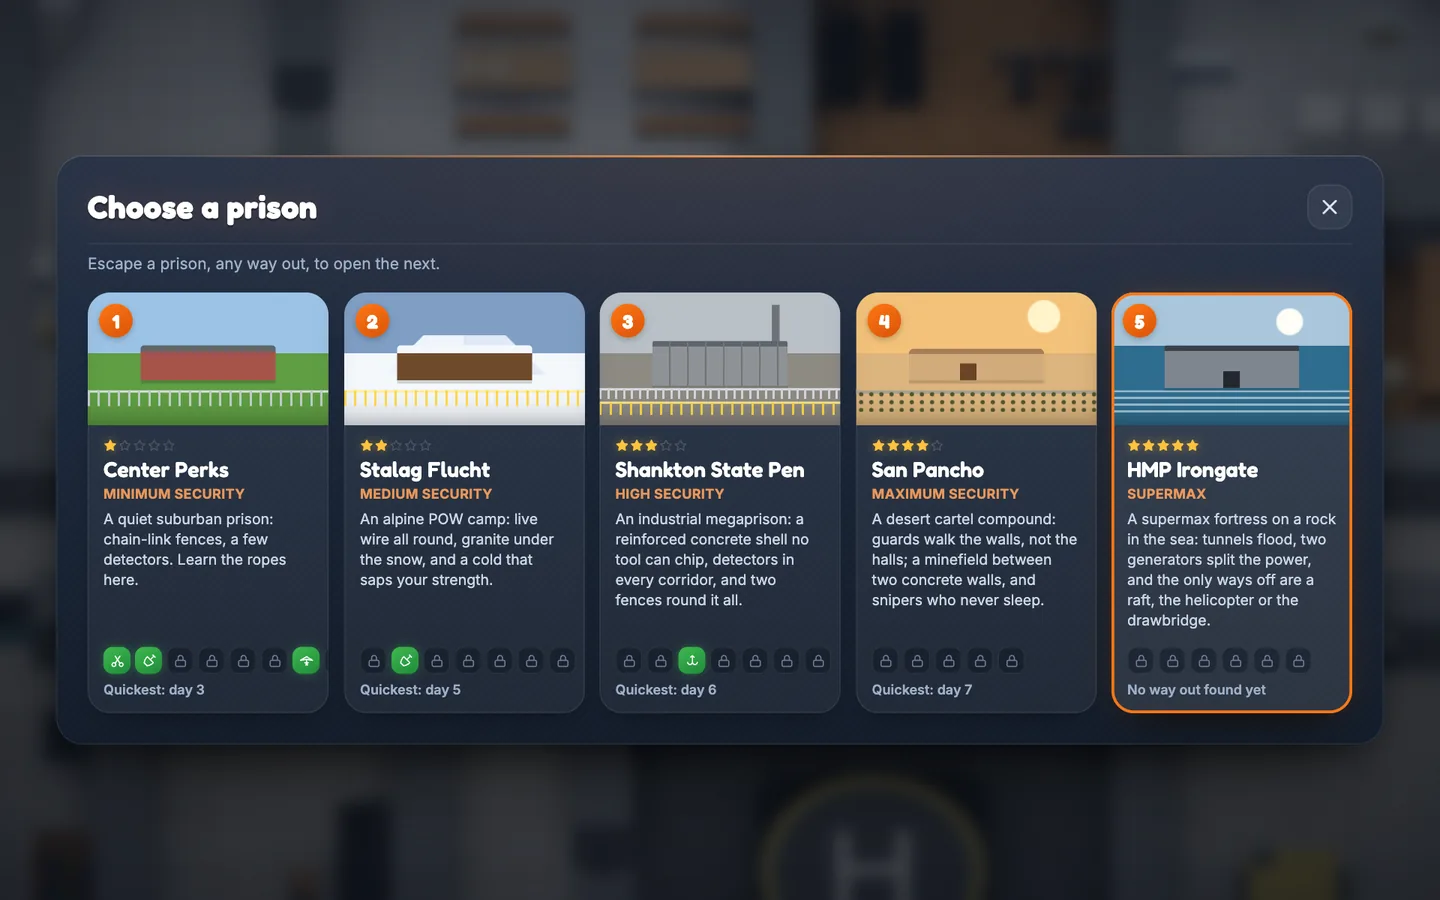
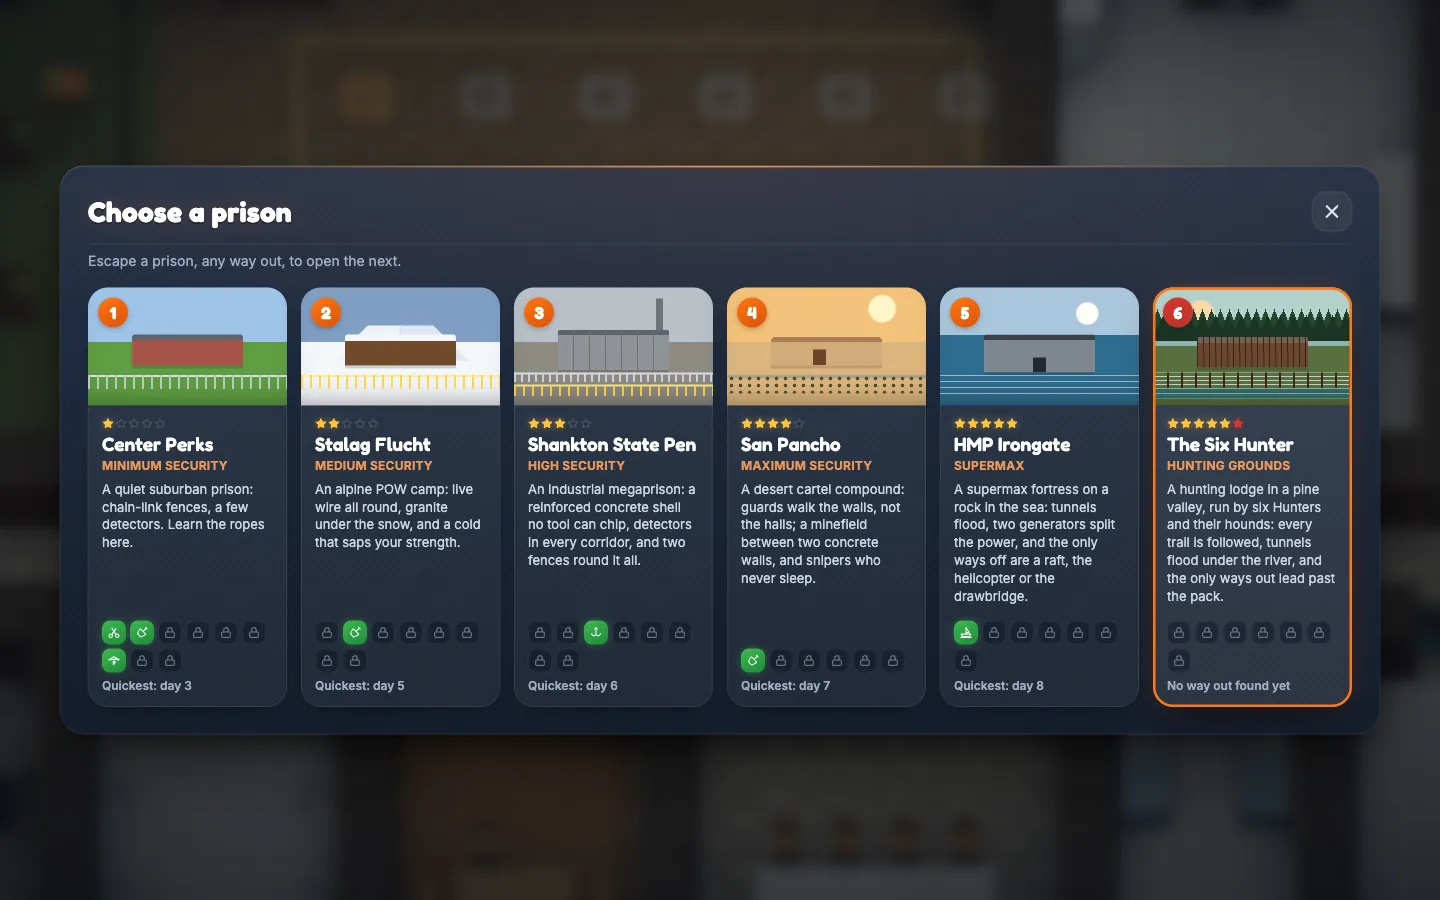
The Six Hunter, the finish (phase 2): the look merged; How to play's picture (the kennel hand at the trough, the six hounds by their kennels, the river: SHOTS.hunters); the README's six prisons (map-six-hunter.webp, the select screen with six cards); its guards called Hunters wherever a guard is nam

diff --git a/src/i18n/fr.ts b/src/i18n/fr.ts
@@ -3872,7 +3872,7 @@ export const fr: Partial<Strings> = {
   "help.delivery.steps": "Mets-toi à l’arrière (l’anneau vert) quand aucun gardien ne regarde.\nUtilise le bouton d’action pour monter : caché, personne ne te voit, mais l’emploi du temps continue sans toi.\nUn coup d’œil à 14:30 et tu pars avec ; une fouille complète te trouve, et c’est l’isolement.",
   "help.delivery.tip": "Si personne n’est là pour fouiller (assommé, attiré ailleurs par un bruit, soudoyé pour regarder ailleurs), il n’y a pas de fouille du tout.",
   "help.delivery.warn": "Pendant un confinement, rien ne sort sans fouille, et des dégâts trouvés pendant que tu te caches en déclenchent un.",
-  "help.delivery.more": "Chaque prison sauf Shankton en a un : un camion de ravitaillement, celui de la Croix-Rouge, un camion de primeurs, l’hélicoptère d’Irongate, le camion du fournisseur des Six Veneurs.\nTant qu’il est là, il bloque le passage et la vue, et son surveillant en fait le tour.\nLa minutie de la fouille dépend de la prison et du jour ; les rumeurs le savent.\nUn gardien strict regarde toujours bien, et tout le monde pendant deux semaines après qu’un passager clandestin a été pris.",
+  "help.delivery.more": "Chaque prison sauf Shankton en a un : un camion de ravitaillement (à Center Perks et aux Six Veneurs), celui de la Croix-Rouge, un camion de primeurs, l’hélicoptère d’Irongate.\nTant qu’il est là, il bloque le passage et la vue, et son surveillant en fait le tour.\nLa minutie de la fouille dépend de la prison et du jour ; les rumeurs le savent.\nUn gardien strict regarde toujours bien, et tout le monde pendant deux semaines après qu’un passager clandestin a été pris.",
   "help.bluff.hook": "Une fausse carte au changement d’équipe",
   "help.bluff.sum": "Au changement d’équipe du soir, le nouveau gardien du portail ne connaît encore personne : montre une fausse carte et sors.",
   "help.bluff.tl": "19:50|Le portail change d’équipe\n20:10|Le changement est fini",
@@ -5100,5 +5100,11 @@ export const fr: Partial<Strings> = {
   "help.hunters.list2": "Un leurre à l’anis, lancé, emporte ta piste : les chiens de service à portée y traînent leurs Veneurs.\nLe savon au goudron efface ton odeur, deux fois.\nUne cape de camouflage, portée, ne laisse aucune piste à découvert.\nLe maître d’équipage porte le cor de rappel : sonné, chaque chien rentre au chenil pour une heure, et les Veneurs alentour l’entendent.",
   "help.hunters.warn": "La rivière inonde tout tunnel creusé dessous, et du granit s’étend sous l’angle nord-ouest.\nLe mur de pierres sèches ne s’entame pas, et la clôture à cerfs est électrifiée.",
   "help.hunters.tip": "Dans le brouillard, épais le matin et dès 19:00, un Veneur dehors ne voit qu’à 4 cases.",
-  "help.hunters.more": "Pas de mutinerie ici : six Veneurs et leurs chiens, c’est trop pour les mettre tous à terre.\nSept façons de sortir : par la rivière, sous le mur, par-dessus au gré du vent, dans le camion du fournisseur, par le portail au culot, sur faux papiers, ou en liberté conditionnelle.\nLes chiens travaillent dès le jour 2, comme partout ; trois d’entre eux travaillent aussi la nuit.\nPassé le mur, la vallée de la Hollowrun : les gués effacent ta piste, et les Six te poursuivent avec leurs chiens.",
+  "help.hunters.more": "Pas de mutinerie ici : six Veneurs et leurs chiens, c’est trop pour les mettre tous à terre.\nSept façons de sortir : par la rivière, sous le mur, par-dessus au gré du vent, dans le camion de ravitaillement, par le portail au culot, sur faux papiers, ou en liberté conditionnelle.\nLes chiens travaillent dès le jour 2, comme partout ; trois d’entre eux travaillent aussi la nuit.\nPassé le mur, la vallée de la Hollowrun : les gués effacent ta piste, et les Six te poursuivent avec leurs chiens.",
+  // 2.36: the Six Hunter's guards are Hunters (ui/names.ts guardWord: `<key>.<prison>` first).
+  "guard.title.six-hunter": "Veneur {name}",
+  "guard.addressed.six-hunter": "Veneur {name}",
+  "guard.subject.six-hunter": "Le Veneur {name}",
+  "guard.the.six-hunter": "le Veneur {name}",
+  "combat.guardNamed.six-hunter": "Veneur {name} · clé {key}",
 };

diff --git a/src/i18n/en.ts b/src/i18n/en.ts
@@ -3874,7 +3874,7 @@ export const en = {
   "help.delivery.steps": "Stand at its tail (the green ring) with no guard looking.\nUse the action button to climb in: hidden, nobody sees you, but the routine goes on without you.\nA quick look at 14:30 and you leave with it; a thorough search finds you, and it’s solitary.",
   "help.delivery.tip": "With nobody there to search (knocked out, drawn off by a noise, bribed to look the other way), there’s no search at all.",
   "help.delivery.warn": "In a lockdown nothing leaves unsearched, and damage the guards find while you hide raises one.",
-  "help.delivery.more": "Every prison but Shankton has one: a supply truck, the Red Cross truck, a produce truck, Irongate’s helicopter, the Six Hunter’s outfitter’s truck.\nWhile it’s in, it blocks the way and the view, and its supervisor walks round it.\nHow thorough the search is depends on the prison and the day; the gossip knows.\nA strict guard always looks properly, and so does everyone for two weeks after a stowaway is caught.",
+  "help.delivery.more": "Every prison but Shankton has one: a supply truck (Center Perks’ and the Six Hunter’s), the Red Cross truck, a produce truck, Irongate’s helicopter.\nWhile it’s in, it blocks the way and the view, and its supervisor walks round it.\nHow thorough the search is depends on the prison and the day; the gossip knows.\nA strict guard always looks properly, and so does everyone for two weeks after a stowaway is caught.",
   "help.bluff.hook": "A fake ID at the shift change",
   "help.bluff.sum": "At the evening shift change the new gatekeeper doesn’t know a face yet: show a fake ID and walk out.",
   "help.bluff.tl": "19:50|The gate changes shifts\n20:10|The change is over",
@@ -5102,7 +5102,13 @@ export const en = {
   "help.hunters.list2": "A drag line, thrown, takes your trail with it: the hounds on duty within earshot drag their Hunters to where it lands.\nTar soap washes your scent off, twice.\nA ghillie cloak, worn, leaves no trail out in the open.\nThe Huntmaster carries the recall horn: blown, every hound runs home for an hour, and the Hunters nearby hear it.",
   "help.hunters.warn": "The river floods any tunnel dug under it, and granite lies under the north-west corner.\nThe fieldstone wall can’t be chipped, and the deer fence is electric.",
   "help.hunters.tip": "In fog, thick in the morning and from 19:00, a Hunter out in it sees only 4 tiles.",
-  "help.hunters.more": "No takeover here: six Hunters and their hounds are too many to put down at once.\nSeven ways out: by the river, under the wall, over it on the wind, in the outfitter’s truck, through the gate on a bluff, on forged papers, or on parole.\nThe hounds work from day 2, as everywhere; three of them work nights too.\nOver the wall, the valley of the Hollowrun: fords wash your trail, and the Six come after you with their hounds.",
+  "help.hunters.more": "No takeover here: six Hunters and their hounds are too many to put down at once.\nSeven ways out: by the river, under the wall, over it on the wind, in the supply truck, through the gate on a bluff, on forged papers, or on parole.\nThe hounds work from day 2, as everywhere; three of them work nights too.\nOver the wall, the valley of the Hollowrun: fords wash your trail, and the Six come after you with their hounds.",
+  // 2.36: the Six Hunter's guards are Hunters (ui/names.ts guardWord: `<key>.<prison>` first).
+  "guard.title.six-hunter": "Hunter {name}",
+  "guard.addressed.six-hunter": "Hunter {name}",
+  "guard.subject.six-hunter": "Hunter {name}",
+  "guard.the.six-hunter": "Hunter {name}",
+  "combat.guardNamed.six-hunter": "Hunter {name} · {key} key",
 };
 
 export type Strings = typeof en;

diff --git a/src/ui/names.ts b/src/ui/names.ts
@@ -1,7 +1,7 @@
 /** How people are named in the game's text: inmates, guards (to address or as a sentence's subject), jobs, and a favor in the asker's words. */
 import { FAVOR_KINDS } from '../sim/systems/economy';
 import type { Sim } from '../sim/Sim';
-import { type Key, lowerFirst, t } from '../i18n';
+import { hasKey, type Key, lowerFirst, t } from '../i18n';
 import { itemName } from './items';
 
 /** An inmate's nickname (the same in every language), else "Inmate · cell n". */
@@ -25,16 +25,28 @@ export function gangName(sim: Sim, k: number): string {
   return id ? t(`gang.${id}` as Key) : '';
 }
 
+/** The words for a guard by title ("Officer Pratt") in a sentence's place. */
+type GuardWord = 'guard.title' | 'guard.addressed' | 'guard.subject' | 'guard.the' | 'combat.guardNamed';
+
+/**
+ * 2.36: a guard's title as this prison has it: `<key>.<prison>` where there is one (the Six Hunter's guards are
+ * Hunters: "Hunter Garrow", "Veneur Garrow"), else the usual ("Officer Pratt").
+ */
+export function guardWord(sim: Pick<Sim, 'prison'>, key: GuardWord, vars: Record<string, string | number>): string {
+  const own = `${key}.${sim.prison.id}`;
+  return t(hasKey(own) ? own : key, vars);
+}
+
 /** A guard as the player addresses it: "Officer Pratt" (or "The guard" for one without a name). */
 export function guardTitle(sim: Sim, k: number): string {
   const d = sim.prison.guards[k];
-  return d?.name ? t('guard.title', { name: d.name }) : t('guard.nameless');
+  return d?.name ? guardWord(sim, 'guard.title', { name: d.name }) : t('guard.nameless');
 }
 
 /** A guard opening a sentence: "Officer Pratt looks away", "Le gardien Pratt ferme les yeux". */
 export function guardSubject(sim: Sim, k: number): string {
   const d = sim.prison.guards[k];
-  return d?.name ? t('guard.subject', { name: d.name }) : t('guard.nameless');
+  return d?.name ? guardWord(sim, 'guard.subject', { name: d.name }) : t('guard.nameless');
 }
 
 /** The job names in the board's order for this prison (for toasts). */

diff --git a/src/play/labels.ts b/src/play/labels.ts
@@ -33,7 +33,7 @@ import { trackCheck } from '../sim/systems/races';
 import { BED, bedAt, bedOf, wilted } from '../sim/systems/garden';
 import { CROP, GROWN, HEATWAVE_WATER, TIPSY_STEPS } from '../content/long';
 import { planOf } from '../sim/systems/calendar';
-import { inmateName } from '../ui/names';
+import { guardWord, inmateName } from '../ui/names';
 
 /**
  * The words on the buttons and cards: who someone is, what a container is called, what the
@@ -159,7 +159,7 @@ function personName(sim: Sim, id: number): string {
   if (!isGuard(s, id)) return t('combat.inmateNamed', { name: inmateName(sim, id), n: s.inmates[id]?.cell ?? 0 });
   const d = sim.prison.guards[id - s.inmates.length];
   const key = t(`keyColor.${d.key}` as Key);
-  return d.name ? t('combat.guardNamed', { name: d.name, key }) : t('combat.guard', { key });
+  return d.name ? guardWord(sim, 'combat.guardNamed', { name: d.name, key }) : t('combat.guard', { key });
 }
 
 /** What a container is called ("your desk", "bookshelf", someone's pockets). */
@@ -310,7 +310,7 @@ export function describePlan(sim: Sim, plan: Plan | null, held: number): ActionW
       // A guard by its title, as the sentence needs it ("Parler au gardien Pratt").
       const guard = who >= n ? sim.prison.guards[who - n] : undefined;
       return say(`person:${who}:${mail}:${lang}`, mail ? 'act.deliver' : guard ? 'act.talkGuard' : 'act.talk', () =>
-        !guard ? inmateName(sim, who) : guard.name ? t('guard.addressed', { name: guard.name }) : t('guard.addressedNameless'),
+        !guard ? inmateName(sim, who) : guard.name ? guardWord(sim, 'guard.addressed', { name: guard.name }) : t('guard.addressedNameless'),
       );
     }
     case 'fixture':

diff --git a/scripts/dev/helpshot.ts b/scripts/dev/helpshot.ts
@@ -40,6 +40,7 @@ import { cardUp, RACE_ENTER, raceCard } from '../../src/sim/systems/races';
 import { tonight, turnFrom } from '../../src/sim/systems/talent';
 import { pointAt } from '../../src/sim/systems/tattoo';
 import { CENTER_PERKS } from '../../src/content/prisons/center-perks';
+import { SIX_HUNTER } from '../../src/content/prisons/six-hunter';
 import { HEARINGS } from '../../src/content/parole';
 import { HOLIDAY } from '../../src/content/holidays';
 import { prisonDay } from '../../src/sim/systems/calendar';
@@ -778,6 +779,22 @@ export const SHOTS: Record<string, Shot> = {
   shell: { prison: 'shankton', route: 'rooftop', when: (_s, k, n) => k >= n - 60, zoom: 1.5, dz: 2.5, light: 1050 },
   mines: { prison: 'san-pancho', route: 'gate', when: (_s, k, n) => k >= n - 40, zoom: 1.3, light: 1050 },
   island: { prison: 'irongate', route: 'raft', when: (_s, k, n) => k >= n - 2, live: 1.2, light: 660, zoom: 0.98, dx: -2 },
+  // 2.36: the kennel hand at the Six Hunter on day 1, a bowl of feed at the trough, the six hounds lying by their
+  // kennels in the run beyond (they work from day 2), each in its own coat, Larch watching, the river to the east.
+  // Taken at 1440×844 (ratio 1).
+  hunters: {
+    make: () => {
+      const bot = new Bot(SIX_HUNTER, 7);
+      bot.routineUntil(1, 12 * 60 + 5);
+      const room = jobRooms(bot.sim.world)[0];
+      useProp(bot, room.take);
+      useProp(bot, room.machines[1]);
+      return bot;
+    },
+    when: (_s, k, n) => k >= n - 1,
+    zoom: 1,
+    dz: 2.4,
+  },
 };
 
 const view = () => (window as unknown as { __view: View }).__view;

diff --git a/src/play/nights.ts b/src/play/nights.ts
@@ -39,7 +39,7 @@ import { play, playNow, sendOp } from './game';
 import { coachOnce } from './tips';
 import { TOUCH } from '../ui/dom';
 import { floatUp } from './floats';
-import { inmateName } from '../ui/names';
+import { guardWord, inmateName } from '../ui/names';
 import type { StageView } from '../ui/stage';
 import type { QuizView } from '../ui/quiz';
 
@@ -53,7 +53,7 @@ import type { QuizView } from '../ui/quiz';
 /** A clock time ("19:34") from minutes of the day. */
 const formatTime = (m: number) => hhmm(m % 1440);
 /** A guard by name ("Officer Pratt"), an item by its id. */
-const guardLabel = (sim: Sim, k: number) => t('guard.title', { name: sim.prison.guards[k]?.name ?? '' });
+const guardLabel = (sim: Sim, k: number) => guardWord(sim, 'guard.title', { name: sim.prison.guards[k]?.name ?? '' });
 const itemName = (id: string) => t(`item.${id}` as Key);
 
 /** The last act's verdict and the last quiz's end, held a moment for the cards (ms of play time: a pause doesn't eat them); the last judgement's flash; notes in a row. Not state. */

diff --git a/src/play/announceJobs.ts b/src/play/announceJobs.ts
@@ -13,7 +13,7 @@ import { play } from './game';
 import { coachOnce, seenInteract } from './tips';
 import { FEAST_ENERGY } from '../content/days';
 import { floatAt } from './floats';
-import { inmateName, jobName } from '../ui/names';
+import { guardWord, inmateName, jobName } from '../ui/names';
 import { nightTired } from './announceKit';
 
 /** Sitting at a canteen table at a meal with nothing to eat, and the counter serving. */
@@ -99,7 +99,11 @@ export function announceJobs(e: SimEvent, sim: Sim) {
         closeSocial();
         sound.whistle();
         buzz('missed');
-        banner.toast(t('toast.countCall', { name: t('guard.title', { name: sim.prison.guards[wardenOf(sim)]?.name ?? '' }) }), 'bad', 5000);
+        banner.toast(
+          t('toast.countCall', { name: guardWord(sim, 'guard.title', { name: sim.prison.guards[wardenOf(sim)]?.name ?? '' }) }),
+          'bad',
+          5000,
+        );
       } else if (e.what === 'answered') sound.pickup();
       else if (e.what === 'missed') {
         sound.sting();

diff --git a/src/play/smuggle.ts b/src/play/smuggle.ts
@@ -39,7 +39,7 @@ import { BOARD_LOOKS, HEARINGS } from '../content/parole';
 import { boardShown } from './parole';
 import { centerX, centerZ } from '../sim/world/grid';
 import { dayTime } from './warden';
-import { guardSubject } from '../ui/names';
+import { guardSubject, guardWord } from '../ui/names';
 
 /**
  * Smuggling on screen (P21): the phone's panel (what an order costs each way, and when and
@@ -263,7 +263,9 @@ export function announceSmuggle(sim: Sim, e: Extract<SimEvent, { type: 'smuggle'
     case 'turnedBack':
       // (The sirens, or a guard looking right where it would land.)
       if (e.guard !== undefined)
-        itemsUI.toast(t('toast.turnedBackWatched', { item, guard: t('guard.the', { name: sim.prison.guards[e.guard]?.name ?? '' }) }));
+        itemsUI.toast(
+          t('toast.turnedBackWatched', { item, guard: guardWord(sim, 'guard.the', { name: sim.prison.guards[e.guard]?.name ?? '' }) }),
+        );
       else itemsUI.toast(t('toast.turnedBack', { item }));
       break;
     case 'dropped': {

diff --git a/src/play/rat.ts b/src/play/rat.ts
@@ -17,7 +17,7 @@ import { ratName, thingName } from './labels';
 import { coachOnce } from './tips';
 import { TOUCH } from '../ui/dom';
 import { inmateInCell } from '../sim/systems/inmates';
-import { inmateName } from '../ui/names';
+import { guardWord, inmateName } from '../ui/names';
 
 /**
  * The pet rat on screen (P20): its name, the panel's places and buttons, the HUD's pill, and
@@ -42,7 +42,7 @@ const KEY_CSS: Record<string, string> = Object.fromEntries(
 /** A place's name for the panel, capitalised: a guard by his title, an inmate by name, furniture by what it is and whose cell. */
 function placeName(sim: Sim, x: RatTarget): string {
   const n = sim.state.inmates.length;
-  if (x.who >= n) return t('guard.title', { name: sim.prison.guards[x.who - n]?.name ?? '' });
+  if (x.who >= n) return guardWord(sim, 'guard.title', { name: sim.prison.guards[x.who - n]?.name ?? '' });
   if (x.who >= 0) return inmateName(sim, x.who);
   return furnitureName(sim, x.container);
 }

diff --git a/src/play/day.ts b/src/play/day.ts
@@ -1,6 +1,6 @@
 import { vehicleName, vehicleThe } from './labels';
 import { warring } from '../sim/systems/gangs';
-import { gangName } from '../ui/names';
+import { gangName, guardWord } from '../ui/names';
 import { freezing } from '../sim/systems/weather';
 import { buzz } from '../app/haptics';
 import {
@@ -92,7 +92,7 @@ export const eventIcon = (sim: Sim, e: DayEvent) =>
 /** Delivery day (P18): who supervises the vehicle (its name: labels.ts's vehicleName, vehicleThe). */
 const supervisorOf = (sim: Sim) => {
   const name = sim.prison.guards[sim.prison.delivery?.supervisor ?? -1]?.name;
-  return name ? t('guard.the', { name }) : t('guard.nameless');
+  return name ? guardWord(sim, 'guard.the', { name }) : t('guard.nameless');
 };
 /** The weather as it's named and drawn: in the snow (Stalag Flucht) a clear day snows, a storm is a blizzard. */
 type WeatherName = Weather | 'snow' | 'blizzard';

diff --git a/src/play/payphone.ts b/src/play/payphone.ts
@@ -45,6 +45,7 @@ import { play, playNow } from './game';
 import { coachOnce } from './tips';
 import { hhmm } from '../sim/systems/clock';
 import { refusedText } from './refusals';
+import { guardWord } from '../ui/names';
 
 /**
  * The pay phone on screen (P34): its card (the dial, the queue, a call, Lou's line), filled from
@@ -108,7 +109,7 @@ export function payphoneNow(sim: Sim): PayphoneView | null {
       v.phase = 'lou';
       v.line = Math.min(2, call.at);
       const ear = call.ear >= 0 ? sim.prison.guards[call.ear] : null;
-      const name = ear ? t('guard.title', { name: ear.name ?? '' }) : '';
+      const name = ear ? guardWord(sim, 'guard.title', { name: ear.name ?? '' }) : '';
       v.ear = !ear
         ? t('phone.earNone')
         : talk.knows(`trait:${call.ear}`)

diff --git a/src/ui/screens/helpTopics.ts b/src/ui/screens/helpTopics.ts
@@ -347,6 +347,8 @@ export const HELP: Record<Exclude<HelpTab, 'controls'>, readonly HelpGroup[]> = 
         // 2.36: the Six Hunter (docs/phases/9-six-hunter.md): the pack, the kennel hand's trust, the Hunters' tricks.
         T('hunters', 'antler', '#3f6b3a', {
           prison: 'six-hunter',
+          pic: true,
+          picAt: '50% 72%',
           recipes: ['drag_line', 'tar_soap', 'ghillie_cloak', 'antler_pick'],
           listIcons: ['paw', 'item:trout', 'down'],
           list2Icons: ['item:drag_line', 'item:tar_soap', 'item:ghillie_cloak', 'item:recall_horn'],
